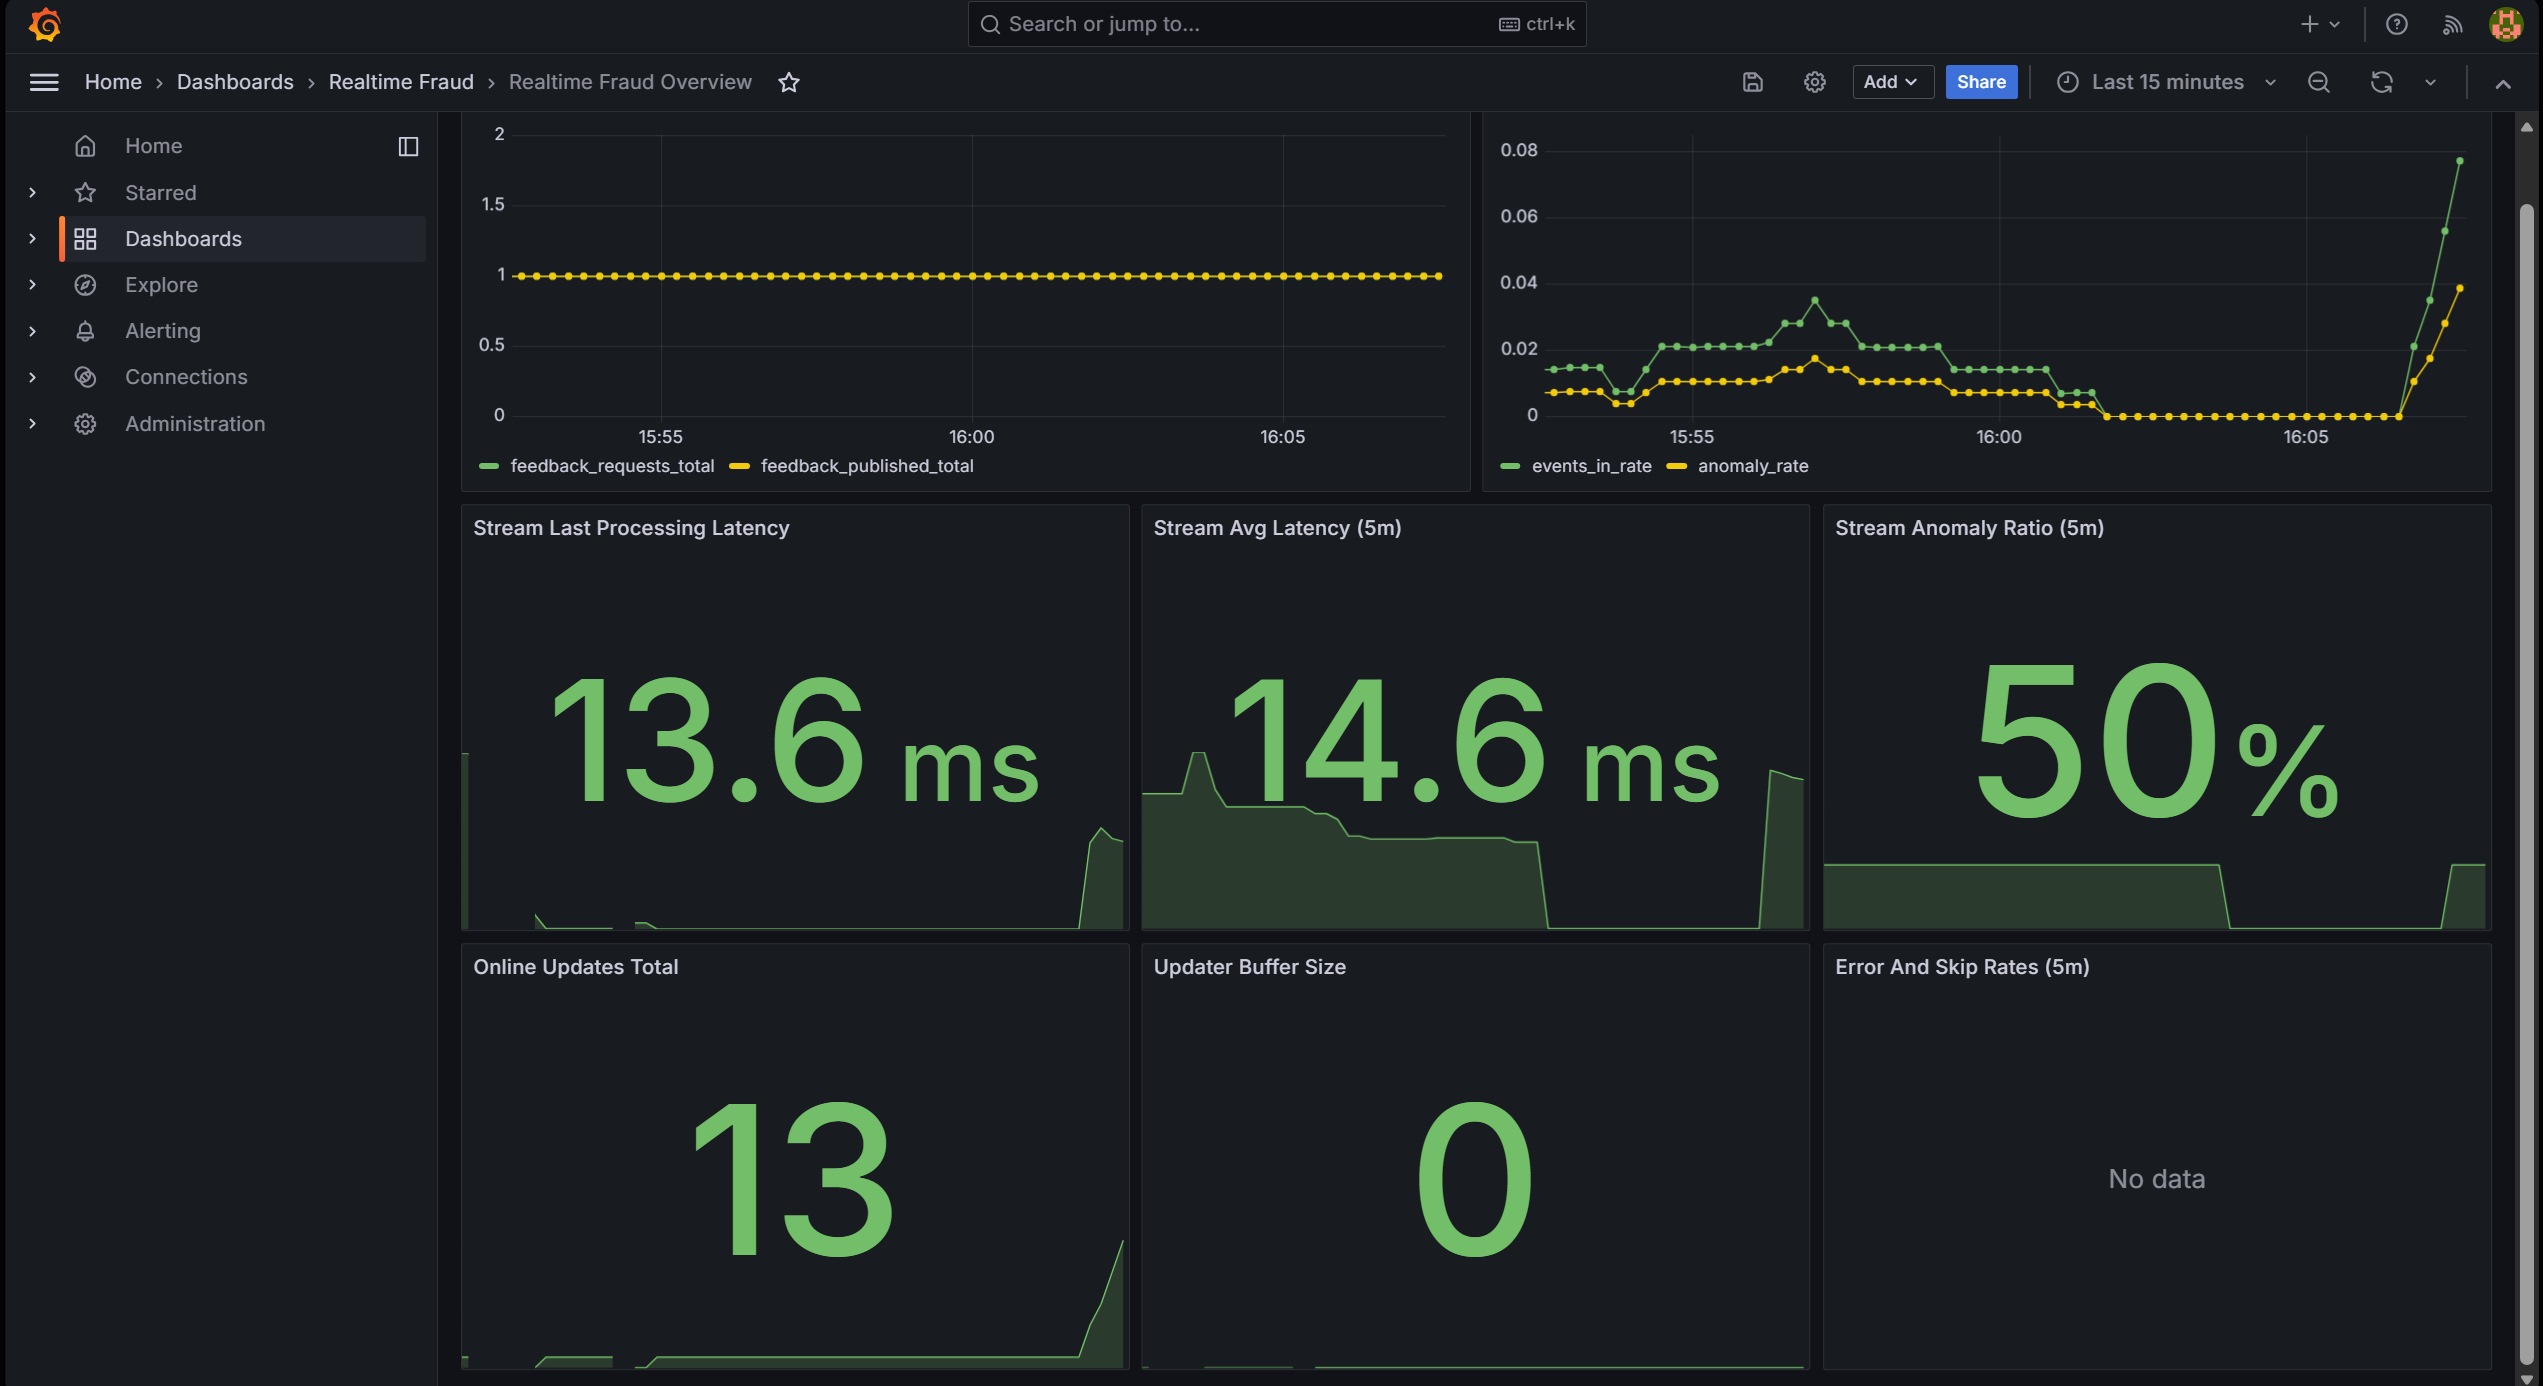
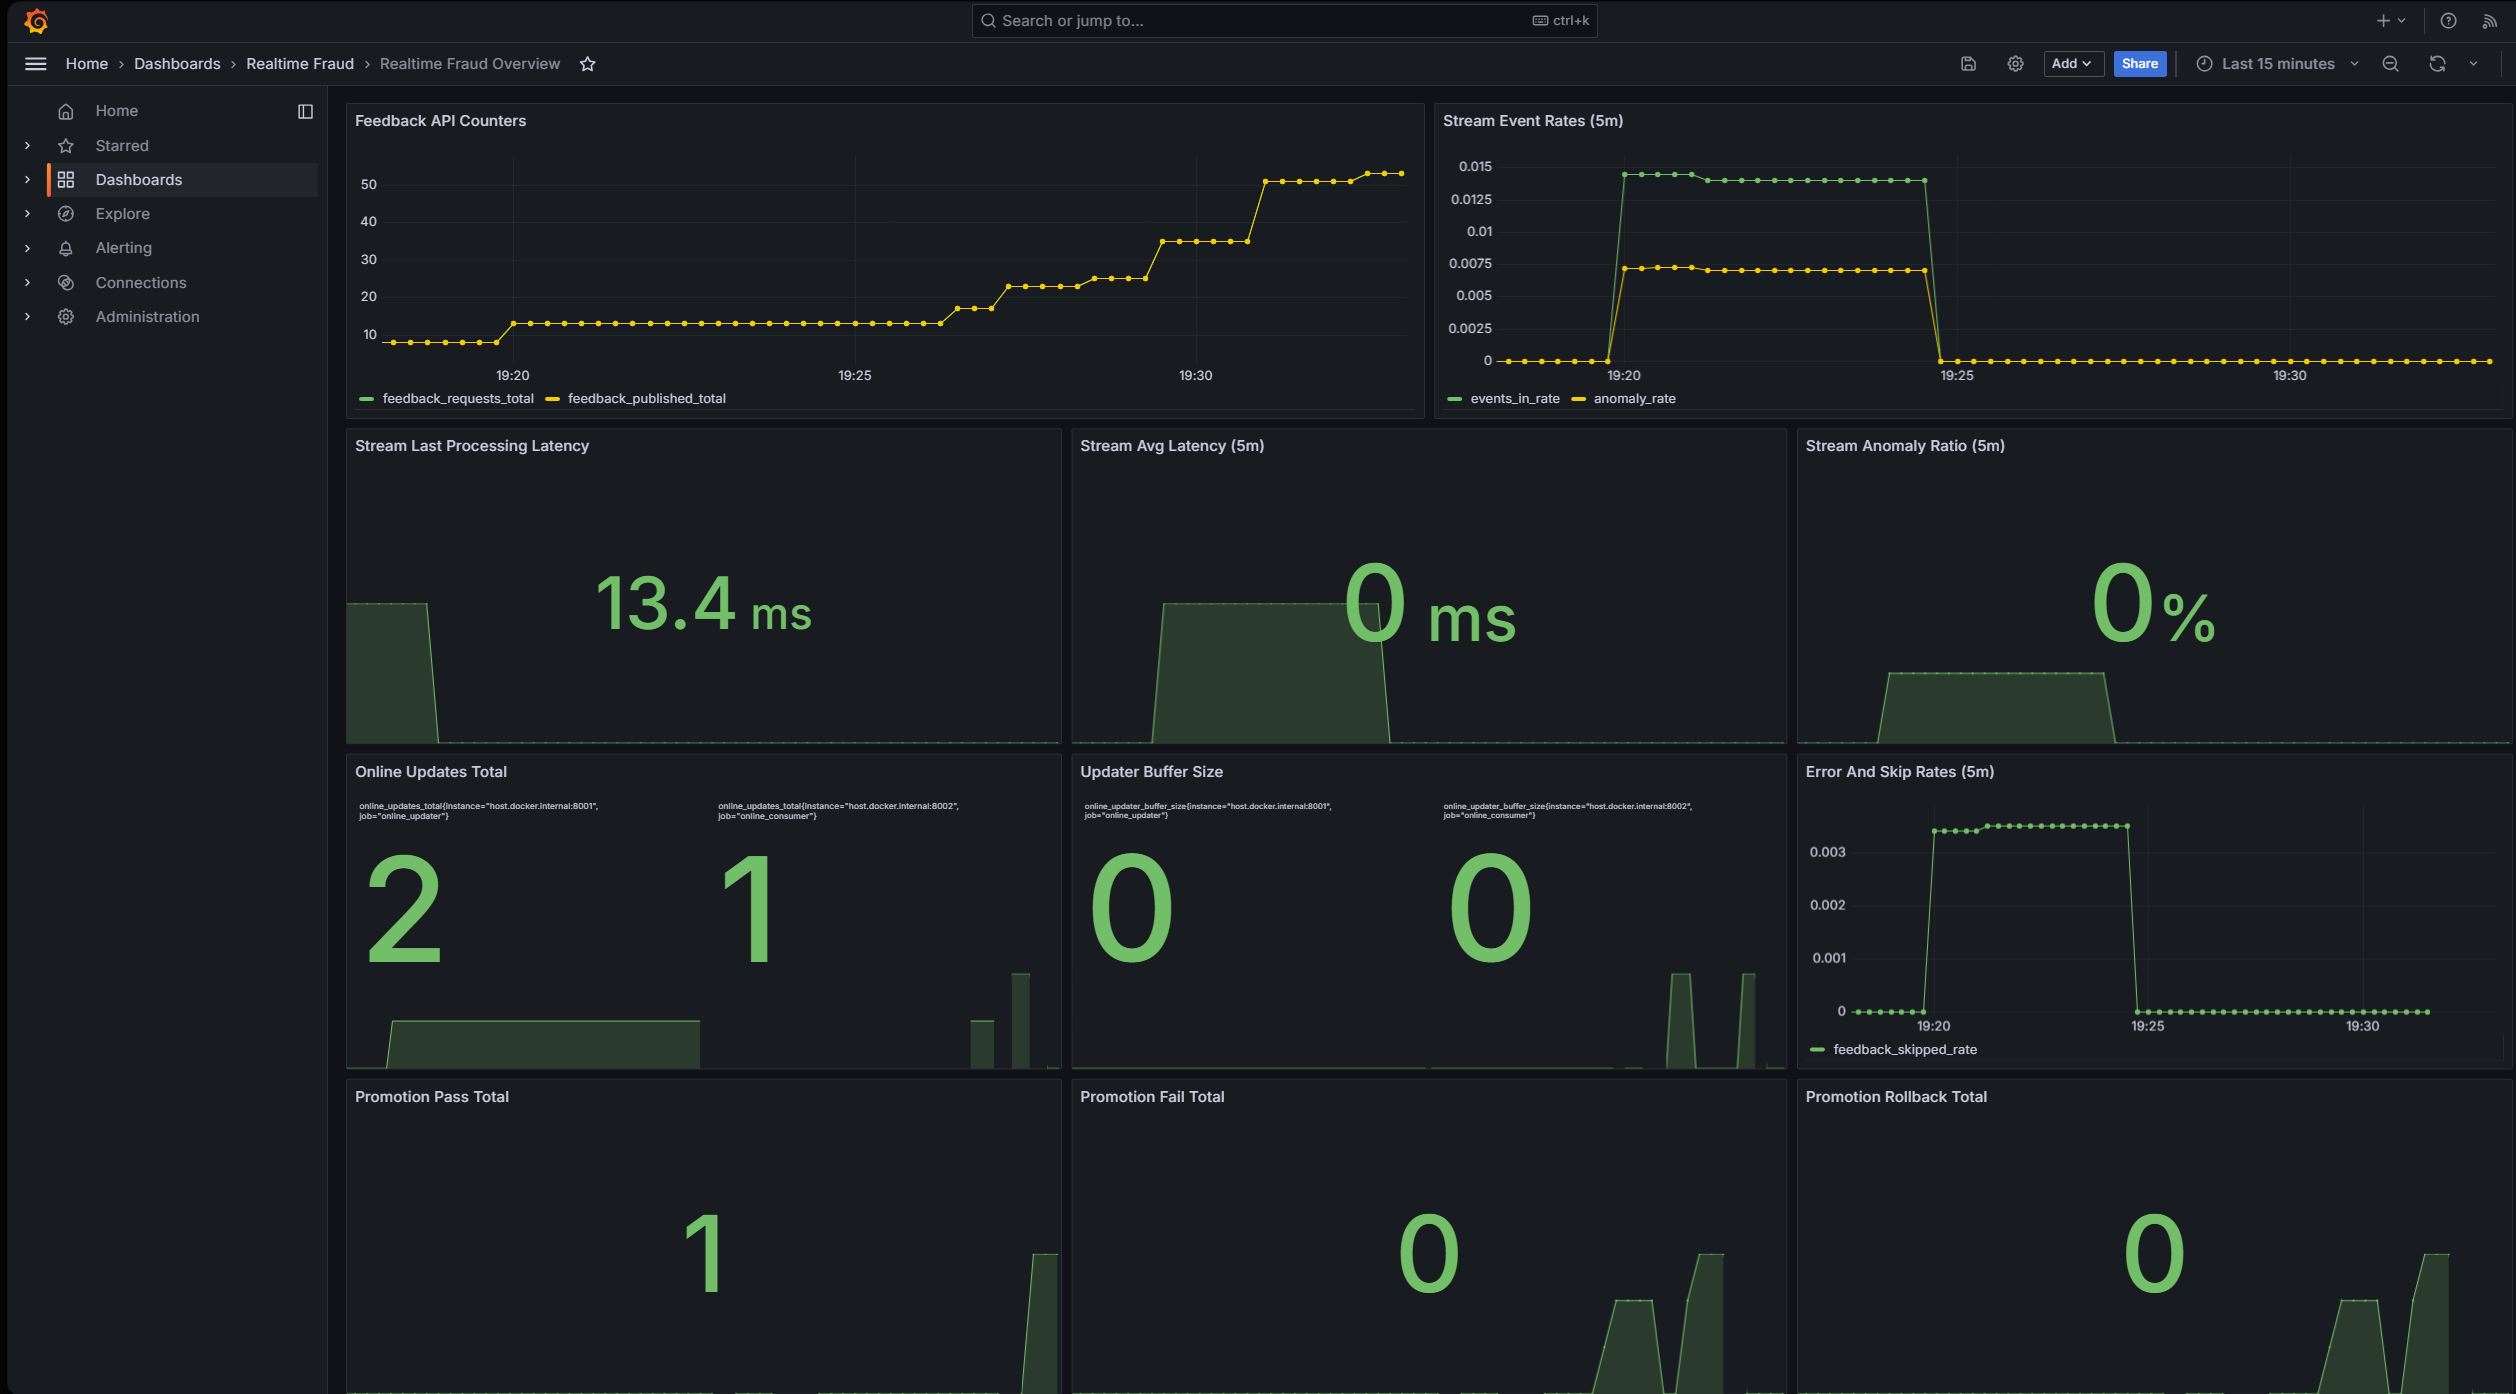
Add consumer guardrail metrics, Prometheus alerts, and Grafana promotion panels

diff --git a/src/online/feedback_consumer_service.py b/src/online/feedback_consumer_service.py
@@ -5,7 +5,10 @@ from __future__ import annotations
 import argparse
 import json
 import time
+from http import HTTPStatus
+from http.server import BaseHTTPRequestHandler, ThreadingHTTPServer
 from pathlib import Path
+from threading import Thread
 from typing import Any, Protocol
 
 import joblib
@@ -26,6 +29,43 @@ class FeedbackConsumer(Protocol):
 
     def close(self) -> None:
         ...
+
+
+def start_metrics_http_server(
+    *,
+    metrics: MetricsRegistry,
+    host: str = "0.0.0.0",
+    port: int = 8002,
+) -> ThreadingHTTPServer:
+    class _Handler(BaseHTTPRequestHandler):
+        def do_GET(self) -> None:  # noqa: N802
+            if self.path == "/metrics":
+                body = metrics.render_prometheus().encode("utf-8")
+                self.send_response(HTTPStatus.OK)
+                self.send_header("Content-Type", "text/plain; version=0.0.4")
+                self.send_header("Content-Length", str(len(body)))
+                self.end_headers()
+                self.wfile.write(body)
+                return
+            if self.path == "/health":
+                body = b'{"status":"ok"}'
+                self.send_response(HTTPStatus.OK)
+                self.send_header("Content-Type", "application/json")
+                self.send_header("Content-Length", str(len(body)))
+                self.end_headers()
+                self.wfile.write(body)
+                return
+
+            self.send_response(HTTPStatus.NOT_FOUND)
+            self.end_headers()
+
+        def log_message(self, format: str, *args: Any) -> None:  # noqa: A003
+            return
+
+    server = ThreadingHTTPServer((host, int(port)), _Handler)
+    thread = Thread(target=server.serve_forever, daemon=True)
+    thread.start()
+    return server
 
 
 def build_kafka_feedback_consumer(
@@ -68,6 +108,10 @@ def run_feedback_consumer_loop(
         raise ValueError("flush_interval_s must be > 0")
 
     m = metrics or updater.metrics
+    m.inc("online_consumer_messages_total", 0.0)
+    m.inc("promotion_pass_total", 0.0)
+    m.inc("promotion_fail_total", 0.0)
+    m.inc("promotion_rollback_total", 0.0)
     started = time.monotonic()
     last_flush_at = started
     idle_polls = 0
@@ -191,6 +235,8 @@ def main() -> None:
     parser.add_argument("--min-precision", type=float, default=0.0)
     parser.add_argument("--min-recall", type=float, default=0.0)
     parser.add_argument("--min-pr-auc", type=float, default=0.0)
+    parser.add_argument("--metrics-host", default="0.0.0.0")
+    parser.add_argument("--metrics-port", type=int, default=8002)
     args = parser.parse_args()
 
     metrics = MetricsRegistry()
@@ -201,24 +247,33 @@ def main() -> None:
         group_id=args.group_id,
         auto_offset_reset=args.auto_offset_reset,
     )
-    summary = run_feedback_consumer_loop(
-        updater=updater,
-        consumer=consumer,
+    metrics_server = start_metrics_http_server(
         metrics=metrics,
-        poll_timeout_ms=args.poll_timeout_ms,
-        max_records_per_poll=args.max_records_per_poll,
-        flush_interval_s=args.flush_interval_s,
-        max_messages=args.max_messages,
-        max_idle_polls=args.max_idle_polls,
-        force_flush_on_exit=not args.no_force_flush_on_exit,
-        promotion_holdout_parquet=args.promotion_holdout,
-        promotion_thresholds=PromotionThresholds(
-            min_precision=float(args.min_precision),
-            min_recall=float(args.min_recall),
-            min_pr_auc=float(args.min_pr_auc),
-        ),
+        host=args.metrics_host,
+        port=args.metrics_port,
     )
-    print(json.dumps(summary, indent=2))
+    try:
+        summary = run_feedback_consumer_loop(
+            updater=updater,
+            consumer=consumer,
+            metrics=metrics,
+            poll_timeout_ms=args.poll_timeout_ms,
+            max_records_per_poll=args.max_records_per_poll,
+            flush_interval_s=args.flush_interval_s,
+            max_messages=args.max_messages,
+            max_idle_polls=args.max_idle_polls,
+            force_flush_on_exit=not args.no_force_flush_on_exit,
+            promotion_holdout_parquet=args.promotion_holdout,
+            promotion_thresholds=PromotionThresholds(
+                min_precision=float(args.min_precision),
+                min_recall=float(args.min_recall),
+                min_pr_auc=float(args.min_pr_auc),
+            ),
+        ),
+        print(json.dumps(summary, indent=2))
+    finally:
+        metrics_server.shutdown()
+        metrics_server.server_close()
 
 
 if __name__ == "__main__":

diff --git a/tests/unit/test_grafana_dashboard.py b/tests/unit/test_grafana_dashboard.py
@@ -12,9 +12,14 @@ def test_grafana_dashboard_contains_stream_metrics_panels():
     assert "Stream Last Processing Latency" in titles
     assert "Stream Avg Latency (5m)" in titles
     assert "Stream Anomaly Ratio (5m)" in titles
+    assert "Promotion Pass Total" in titles
+    assert "Promotion Fail Total" in titles
+    assert "Promotion Rollback Total" in titles
 
     queries = [target["expr"] for panel in panels for target in panel.get("targets", [])]
     assert any("stream_events_in_total" in q for q in queries)
     assert any("stream_events_anomaly_total" in q for q in queries)
     assert any("stream_process_latency_ms_total" in q for q in queries)
-
+    assert any("promotion_pass_total" in q for q in queries)
+    assert any("promotion_fail_total" in q for q in queries)
+    assert any("promotion_rollback_total" in q for q in queries)

diff --git a/tests/unit/test_prometheus_alert_rules.py b/tests/unit/test_prometheus_alert_rules.py
@@ -1,0 +1,22 @@
+from pathlib import Path
+
+
+def test_prometheus_alert_rules_file_exists():
+    path = Path("infra/prometheus/alerts.yml")
+    assert path.exists()
+
+
+def test_prometheus_alert_rules_contains_expected_alerts():
+    text = Path("infra/prometheus/alerts.yml").read_text(encoding="utf-8")
+    expected = [
+        "alert: FeedbackPublishErrorsDetected",
+        "alert: OnlineConsumerStalled",
+        "alert: PromotionFailuresDetected",
+        "alert: PromotionRollbacksDetected",
+        "expr: increase(feedback_publish_errors_total[5m]) > 0",
+        "expr: increase(online_consumer_messages_total[5m]) == 0",
+        "expr: increase(promotion_fail_total[15m]) > 0",
+        "expr: increase(promotion_rollback_total[15m]) > 0",
+    ]
+    for token in expected:
+        assert token in text

diff --git a/README.md b/README.md
@@ -64,11 +64,12 @@ flowchart LR
     STREAM[Stream Event Processing\nparse -> features -> score -> route]:::serve
     API[Feedback API\n:8000]:::serve
     ONLINE[Online Service + Updater\n:8001]:::serve
+    CONSUMER[Feedback Consumer\n:8002]:::serve
     ART --> STREAM
     ART --> ONLINE
     STREAM -->|Anomalies| API
-    API -->|Labels + Features| ONLINE
-    ONLINE -->|partial_fit updates| ART
+    API -->|Labels + Features| CONSUMER
+    CONSUMER -->|partial_fit updates| ART
   end
 
   subgraph L4[Observability Layer]
@@ -76,6 +77,7 @@ flowchart LR
     GRAF[Grafana\n:3000]:::obs
     API -->|/metrics| PROM
     ONLINE -->|/metrics| PROM
+    CONSUMER -->|/metrics| PROM
     PROM --> GRAF
   end
 
@@ -139,6 +141,10 @@ scripts/tasks.ps1 -Task start-api
 ```powershell
 scripts/tasks.ps1 -Task start-online-service
 ```
+- Feedback consumer with promotion guardrails (`online_consumer` Prometheus target):
+```powershell
+scripts/tasks.ps1 -Task start-feedback-consumer-guarded
+```
 
 ### 5. Generate traffic and metrics
 ```powershell
@@ -152,6 +158,7 @@ scripts/tasks.ps1 -Task seed-online-metrics
   - `prometheus`: `UP`
   - `feedback_api`: `UP`
   - `online_updater`: `UP`
+  - `online_consumer`: `UP`
 - Grafana: `http://127.0.0.1:3000` -> dashboard `Realtime Fraud Overview`
 
 In Prometheus Graph, run:
@@ -161,6 +168,17 @@ In Prometheus Graph, run:
 - `stream_events_in_total`
 - `stream_events_anomaly_total`
 - `stream_last_process_latency_ms`
+- `promotion_pass_total`
+- `promotion_fail_total`
+- `promotion_rollback_total`
+
+### 6b. Verify alert rules
+- Prometheus: `http://127.0.0.1:9090` -> `Status -> Rules`
+- Confirm these alert names are loaded:
+  - `FeedbackPublishErrorsDetected`
+  - `OnlineConsumerStalled`
+  - `PromotionFailuresDetected`
+  - `PromotionRollbacksDetected`
 
 ### 7. Run benchmark/readiness reports
 ```powershell
@@ -217,6 +235,9 @@ scripts/tasks.ps1 -Task demo-readiness-trained
 
 # Seed online service counters so Prometheus/Grafana panels show data quickly
 scripts/tasks.ps1 -Task seed-online-metrics
+
+# Reload Prometheus after alert/config updates
+docker compose -f infra/docker-compose.yml restart prometheus
 ```
 
 ## Outputs
@@ -226,6 +247,7 @@ scripts/tasks.ps1 -Task seed-online-metrics
 ## Endpoints
 - API: `http://127.0.0.1:8000`
 - API metrics: `http://127.0.0.1:8000/metrics`
+- Consumer metrics: `http://127.0.0.1:8002/metrics`
 - Prometheus: `http://127.0.0.1:9090`
 - Grafana: `http://127.0.0.1:3000`
 
